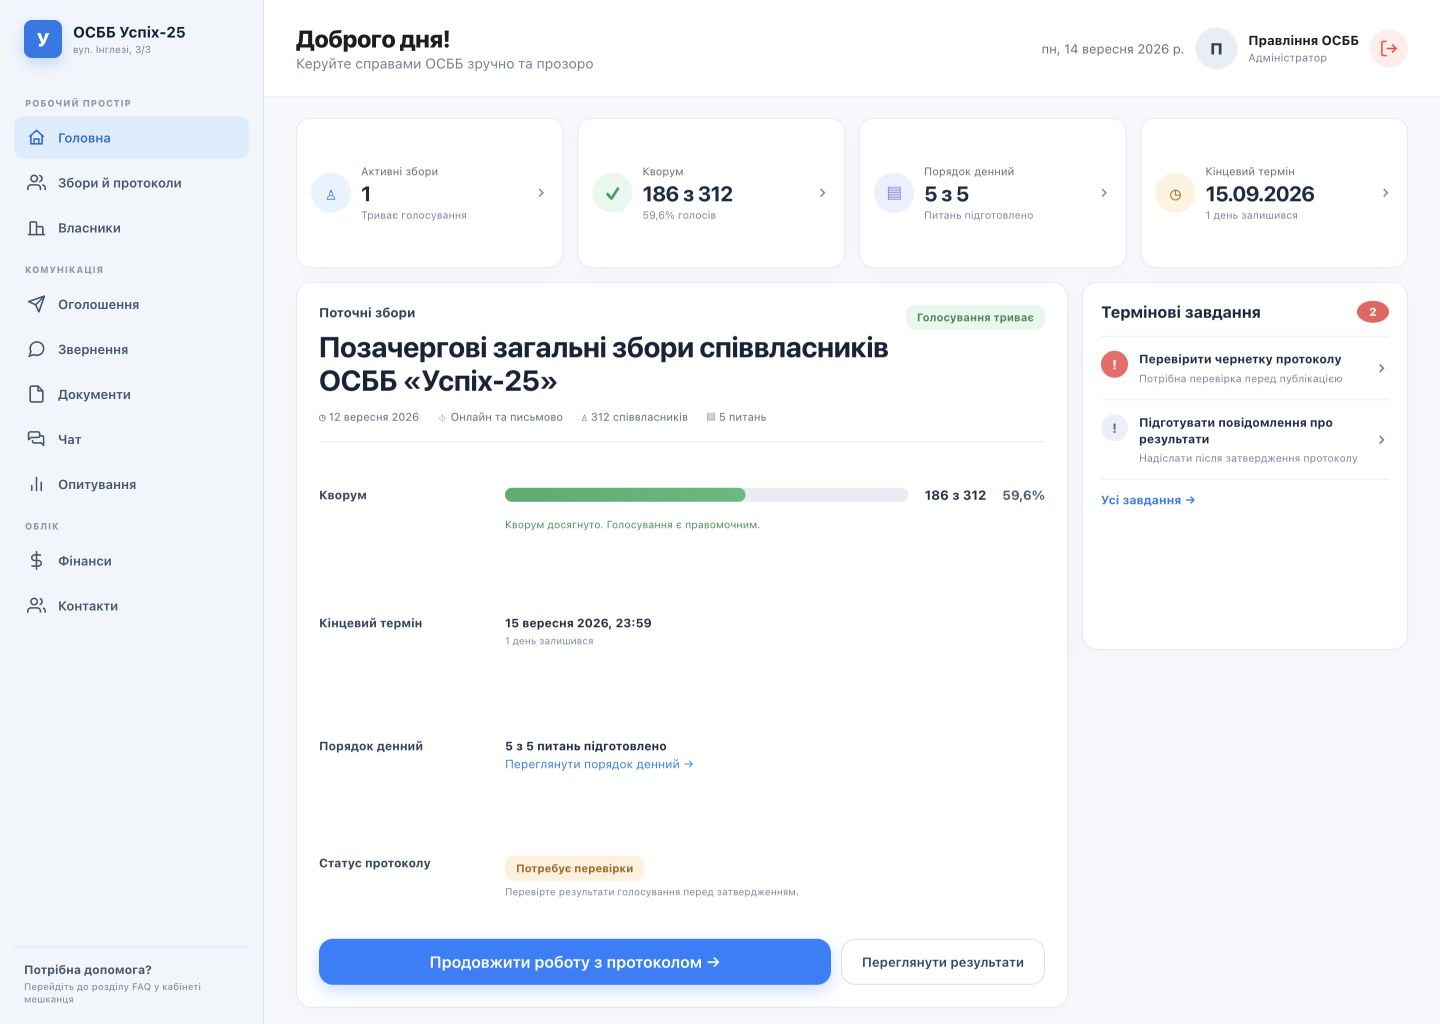
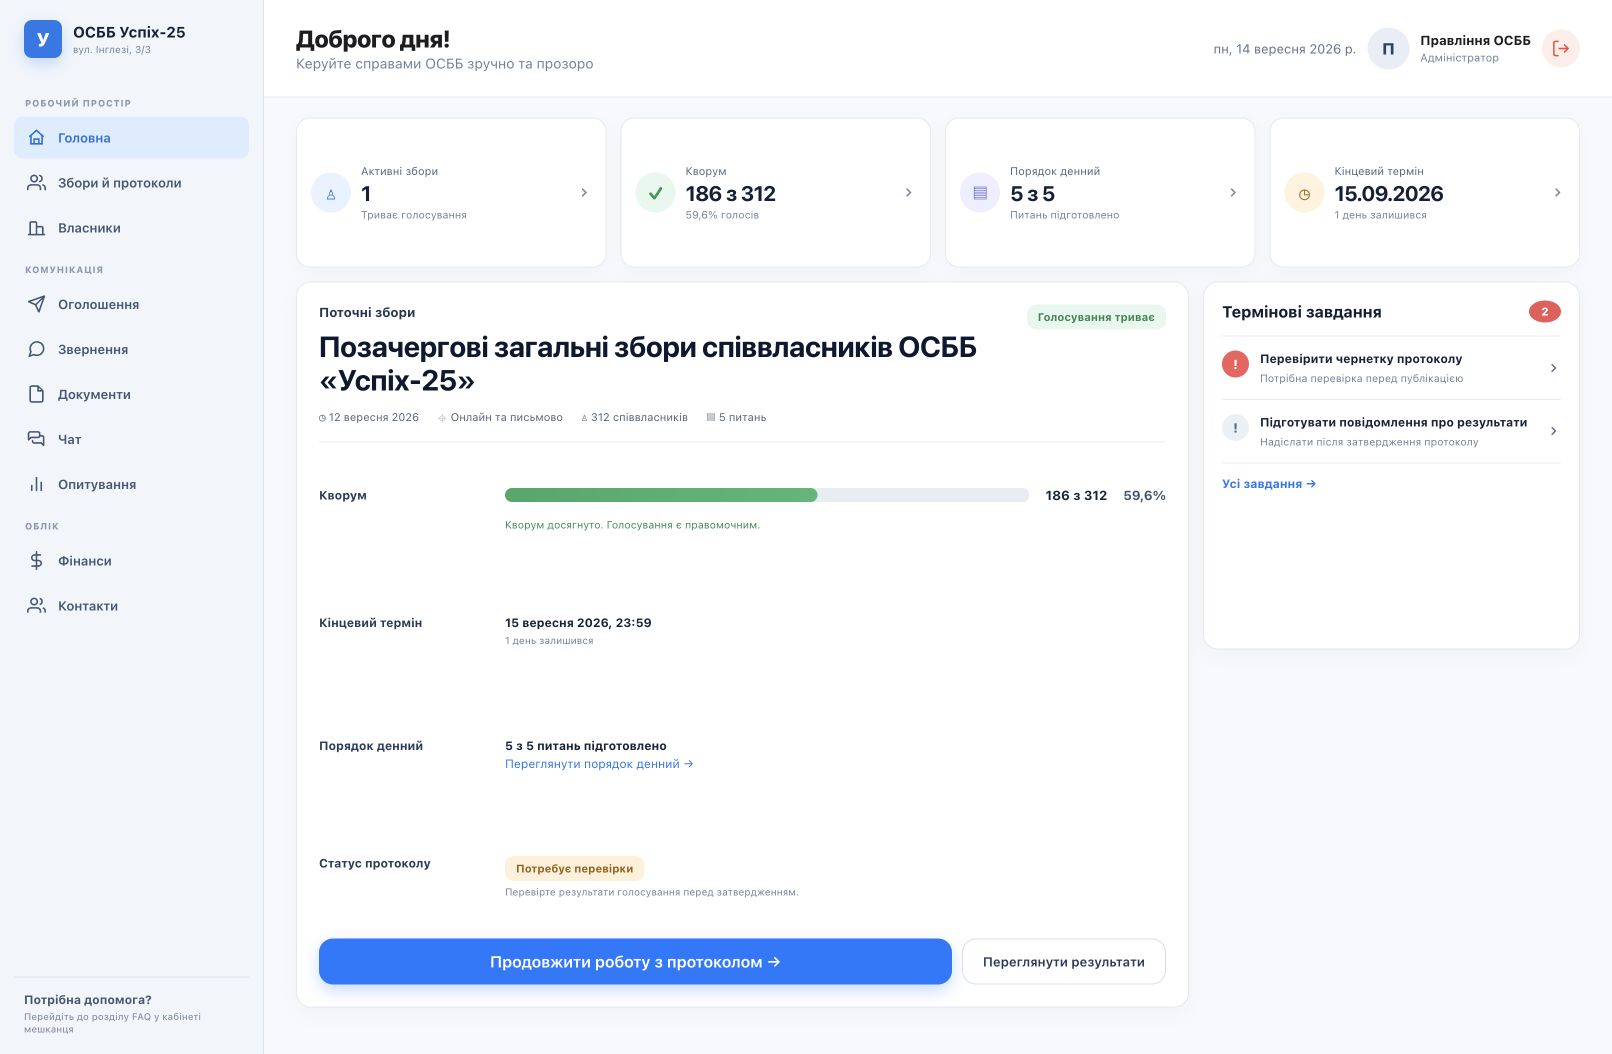
Fix admin dashboard visibility on desktop

diff --git a/index.html b/index.html
@@ -14,7 +14,7 @@
     <meta name="apple-mobile-web-app-title" content="Успіх-25">
     <link rel="apple-touch-icon" href="assets/icons/icon-192x192.png">
 
-    <link rel="stylesheet" href="style.css?v=93">
+    <link rel="stylesheet" href="style.css?v=94">
 </head>
 <body>
 
@@ -1849,7 +1849,7 @@
 </script>
 <script type="module">
     const preview = new URLSearchParams(location.search).get('preview');
-    import(preview === 'admin' ? './js/admin-preview.js?v=93' : './js/app.js?v=93');
+    import(preview === 'admin' ? './js/admin-preview.js?v=94' : './js/app.js?v=94');
 </script>
 </body>
 </html>

diff --git a/style.css b/style.css
@@ -4599,7 +4599,7 @@ select.field-input {
 @media (min-width: 960px) {
     body.admin-mode { overflow-x: hidden; background: #f7f9fc; }
     body.admin-mode .container { max-width: none; margin: 0; padding: 0; }
-    #adminDashboardSection {
+    body.admin-mode #adminDashboardSection {
         min-height: 100vh; display: grid !important;
         grid-template-columns: 264px minmax(0, 1fr);
         grid-template-rows: auto 1fr; background: #f7f9fc;

diff --git a/sw.js b/sw.js
@@ -11,7 +11,7 @@
 // інакше браузери мешканців віддаватимуть стару оболонку.
 // ============================================================
 
-const VERSION = '93';
+const VERSION = '94';
 const CACHE = `uspih-25-v${VERSION}`;
 
 // Файли з «?v=» підключені саме так в index.html — кешуємо їх

diff --git a/design-qa.md b/design-qa.md
@@ -38,6 +38,8 @@
 1. Перша browser-render ітерація: P2 — KPI та картка зборів були надто низькими, через що нижня половина desktop-viewport виглядала порожньою.
 2. Fix: header збільшено до пропорції джерела, KPI — до 150 px, картку зборів — до 680 px; операційні рядки розподілено по висоті, зайву desktop-смугу статистики приховано.
 3. Post-fix evidence: `admin-desktop-implementation.png` і `design-qa-comparison.png`; композиція заповнює viewport аналогічно джерелу, відкритих P0/P1/P2 немає.
+4. Regression check after user screenshot: P0 — desktop `display: grid !important` перекривав прихований стан адмінки, тому вона зʼявлялася під формою входу всередині 480 px контейнера.
+5. Fix: desktop grid тепер активується лише селектором `body.admin-mode #adminDashboardSection`; звичайний URL показує тільки форму входу, preview URL — тільки адмін-панель. Cache version оновлено до 94.
 
 **Primary interactions tested**
 
